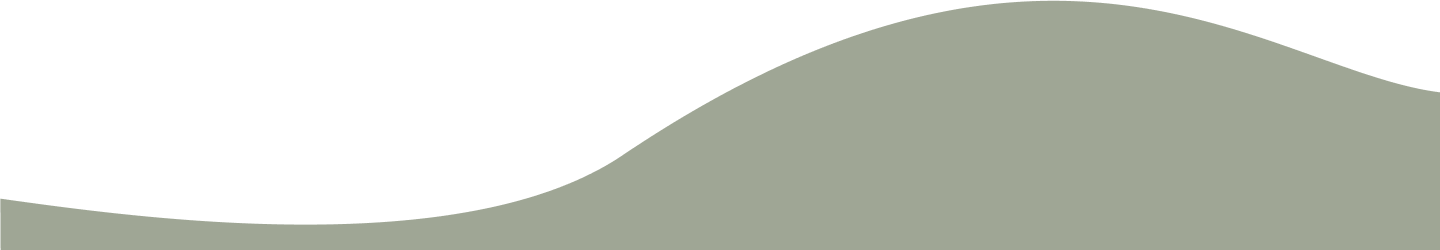
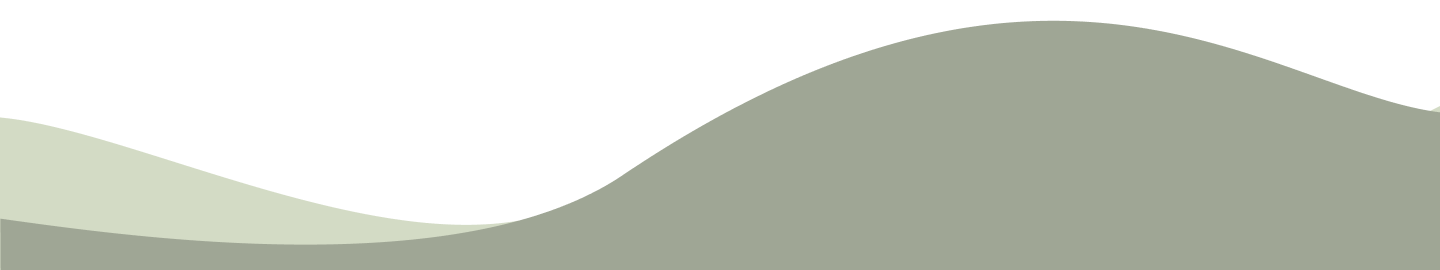
Fix image issue and background vector issue

diff --git a/Day 15/style.css b/Day 15/style.css
@@ -142,11 +142,6 @@ body .mainContainer .legend .legend__text .download .download__CTA .download__li
   filter: invert(100%);
 }
 
-body .mainContainer .legend .legend__image {
-  background-image: url(images/Ellipse.png);
-  background-repeat: no-repeat;
-}
-
 body .mainContainer .legend .legend__image img {
   max-width: 100%;
   height: auto;

diff --git a/Day 15/style.scss b/Day 15/style.scss
@@ -137,8 +137,6 @@ body{
             }
             /*legend image section*/
             .legend__image{
-                background-image: url(images/Ellipse.png);
-                background-repeat: no-repeat;
                 img{
                     max-width: 100%;
                     height: auto;
